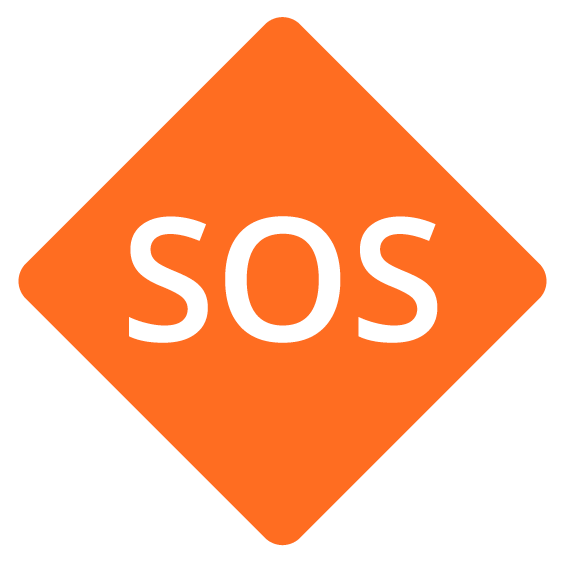
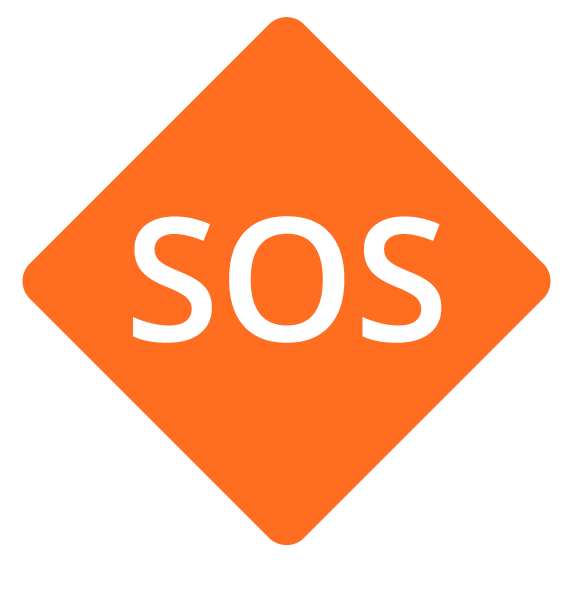
layout updates + alert widget

diff --git a/src/app/tabs/welcome/welcome.page.scss b/src/app/tabs/welcome/welcome.page.scss
@@ -47,6 +47,8 @@
 
   &--available {
     width: 100%;
+    display: inline-block;
+    margin: 0.5rem 0;
     &-header {
       width: 100%;
       display: flex;
@@ -113,6 +115,8 @@
 
   &--subscribe {
     width: 100%;
+    display: inline-block;
+    margin: 0.5rem 0;
     div {
       width: 100%;
       display: flex;
@@ -143,6 +147,8 @@
 
   &--level {
     width: 100%;
+    display: inline-block;
+    margin: 0.5rem 0;
     a {
       width: 100%;
       display: flex;
@@ -169,8 +175,8 @@
 
   &--help {
     width: 100%;
-    display: block;
-    margin: 1rem 0;
+    display: inline-block;
+    margin: 0.5rem 0;
     &-content {
       width: 100%;
       border-radius: var(--ion-radius-card);
@@ -224,6 +230,38 @@
         ion-icon {
           display: block;
         }
+      }
+    }
+  }
+
+  &--alert {
+    width: 100%;
+    display: inline-block;
+    margin: 0.5rem 0;
+    &-content {
+      width: 100%;
+      padding: 1rem;
+      background-color: var(--ion-color-red-tint);
+      border: 1px solid var(--ion-color-red);
+      border-radius: var(--ion-radius-card);
+      display: flex;
+      flex-flow: row nowrap;
+      justify-content: space-between;
+      align-items: center;
+      div {
+        b {
+          font-size: 0.8rem;
+          color: var(--ion-color-red);
+          margin-bottom: 0.3rem;
+        }
+        p {
+          font-family: var(--ion-font-headline);
+          margin: 0;
+        }
+      }
+      ion-icon {
+        font-size: 1.3rem;
+        color: var(--ion-color-dark);
       }
     }
   }

diff --git a/src/theme/variables.scss b/src/theme/variables.scss
@@ -101,6 +101,13 @@
   --ion-color-green-shade: #2ec23b;
   --ion-color-green-tint: #E6FDE8;
 
+  --ion-color-red: #dd5567;
+  --ion-color-red-rgb: 221,85,103;
+  --ion-color-red-contrast: #ffffff;
+  --ion-color-red-contrast-rgb: 255,255,255;
+  --ion-color-red-shade: #dd5567;
+  --ion-color-red-tint: #fcebed;
+
   --ion-color-transparent: transparent;
   --ion-color-transparent-rgb: 0,0,0,0;
   --ion-color-transparent-contrast: transparent;
@@ -169,7 +176,7 @@ img { display: block; }
   &--green { color: var(--ion-color-green) !important; }
   &--grey { color: var(--ion-color-medium) !important; }
   &--white { color: white !important; }
-  &--dark { color: var(--ion-color-secondary) !important; }
+  &--secondary { color: var(--ion-color-secondary) !important; }
 }
 .bg {
   &--sky { background-color: var(--ion-color-sky) !important; }
@@ -178,7 +185,7 @@ img { display: block; }
   &--green { background-color: var(--ion-color-green) !important; }
   &--grey { background-color: var(--ion-color-medium) !important; }
   &--white { background-color: white !important; }
-  &--dark { background-color: var(--ion-color-secondary) !important; }
+  &--secondary { background-color: var(--ion-color-secondary) !important; }
 }
 .actionsheet {
   --color: var(--ion-color-green);

diff --git a/src/app/tabs/tabs.page.scss b/src/app/tabs/tabs.page.scss
@@ -1,7 +1,7 @@
 // floating action
 ion-fab {
-  bottom: 4rem;
-  right: 16px;
+  bottom: 3rem;
+  right: 1.3rem;
 }
 ion-fab-button {
   background-color: transparent !important;
@@ -19,9 +19,11 @@ ion-header {
   background-color: var(--ion-color-secondary);
 }
 
+
 ion-tab-bar {
   --background: var(--ion-color-secondary);
   --color: white;
+  border-top: 1rem solid var(--ion-color-secondary);
 }
 ion-tab-button {
   --color-selected: rgba( 255,255,255, 0.2);
@@ -59,3 +61,26 @@ ion-tab-button {
   }
 
 }
+
+// .sos {
+//   &--button {
+//     // position: absolute;
+//     // left: 0;
+//     // right: 0;
+//     // bottom: 0;
+//     // z-index: 10;
+//     width: 100%;
+//     text-align: right;
+//     display: block;
+//     &-container {
+//       width: 18%;
+//       transform: translateY(-1rem);
+//       margin-right: 2rem;
+//     }
+//     &-bg {
+//       width: 100%;
+//       height: 6rem;
+//       background-color: var(--ion-color-secondary-tint);
+//     }
+//   }
+// }

diff --git a/src/app/tabs/tabs.page.html b/src/app/tabs/tabs.page.html
@@ -21,16 +21,26 @@
 
 </ion-header>
 
+<!-- <ion-footer class="sos--button">
+  <div class="sos--button-container" (click)="onClickSos()">
+    <img src="../../assets/ui/SOS.png" />
+  </div>
+  <div class="sos--button-bg"></div>
+</ion-footer> -->
+
 <ion-content>
-  <!-- floating action -->
+  
+<!-- floating action -->
   <ion-fab vertical="bottom" horizontal="end" slot="fixed">
     <ion-fab-button color="transparent" mode="ios" (click)="onClickSos()">
       <img src="../../assets/ui/SOS.png" />
     </ion-fab-button>
   </ion-fab>
+
   <!-- tabs -->
   <ion-tabs>
     <ion-tab-bar slot="bottom" mode="ios">
+
       <ion-tab-button tab="welcome">
         <ion-icon name="star-outline"></ion-icon>
         <ion-label>Status</ion-label>
@@ -55,6 +65,7 @@
         <ion-icon name="star-outline"></ion-icon>
         <ion-label>Póliza</ion-label>
       </ion-tab-button>
+
     </ion-tab-bar>
   </ion-tabs>
   <!-- - -->

diff --git a/src/app/tabs/welcome/welcome.page.html b/src/app/tabs/welcome/welcome.page.html
@@ -15,6 +15,17 @@
 
     <div class="welcome--widgets">
 
+      <!-- Alert widget -->
+      <div class="widget--alert">
+        <div class="widget--alert-content">
+          <div>
+            <b>FALLA ENCONTRADA</b>
+            <p>Sistema de encendido</p>
+          </div>
+          <ion-icon name="ios-arrow-forward"></ion-icon>
+        </div>
+      </div>
+
       <!-- Help widget -->
       <div class="widget--help">
         <div (click)="onClickHelpWidget()" class="widget--help-content">
@@ -42,7 +53,7 @@
             <b>232 km</b>
           </div>
           <a>
-            <span>Renovar</span>
+            <span>Recargar</span>
             <ion-icon name="ios-arrow-forward"></ion-icon>
           </a>
         </div>

diff --git a/src/app/app.component.html b/src/app/app.component.html
@@ -24,12 +24,12 @@
 
           <ion-item lines="none" class="menu--item" routerLink="/payment">
             <ion-icon name="add-circle"></ion-icon>
-            <ion-label>Método de pago</ion-label>
+            <ion-label>Métodos de pago</ion-label>
           </ion-item>
 
           <ion-item lines="none" class="menu--item" routerLink="/orders">
             <ion-icon name="add-circle"></ion-icon>
-            <ion-label>Pagos</ion-label>
+            <ion-label>Historial de pagos</ion-label>
           </ion-item>
 
           <ion-item lines="none" class="menu--item" routerLink="/credentials">
